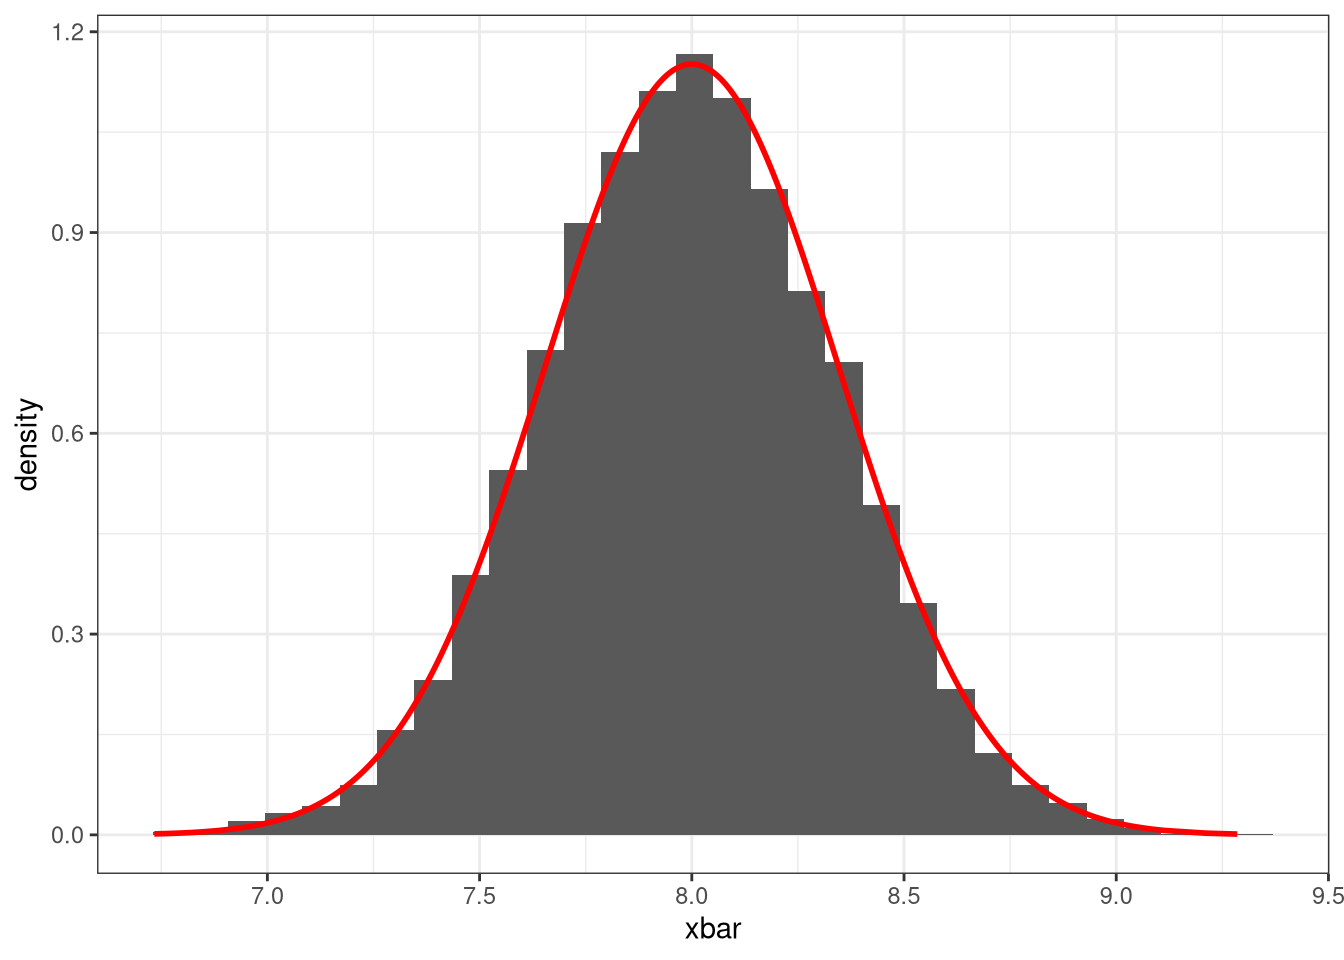
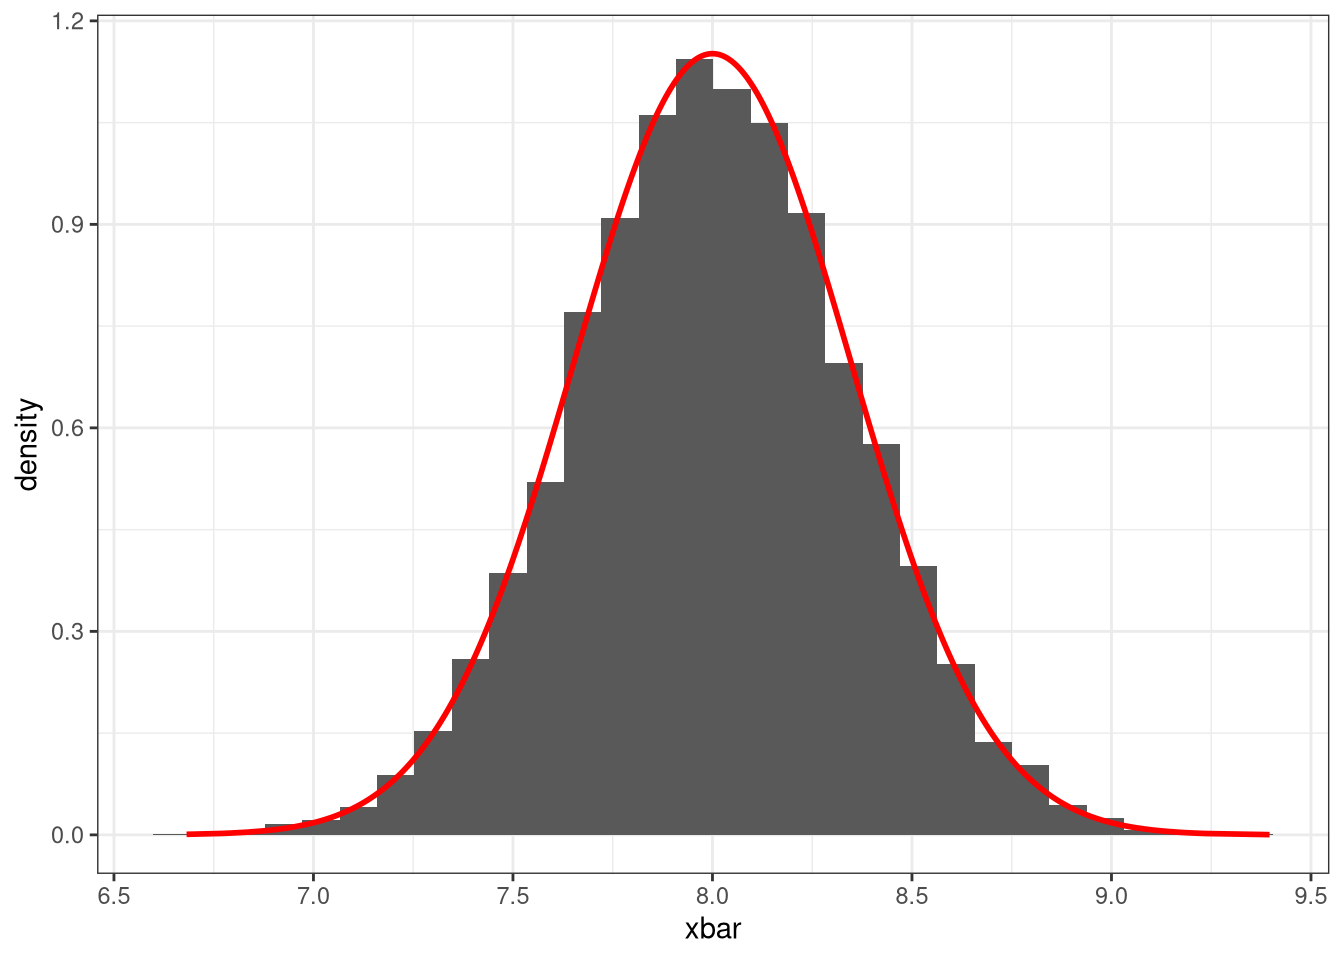
Minor edits to estimators.

diff --git a/docs/estimators.html b/docs/estimators.html
@@ -197,14 +197,14 @@ window.Quarto = {
 <section id="normal-distribution-example" class="level3">
 <h3 class="anchored" data-anchor-id="normal-distribution-example">Normal Distribution Example</h3>
 <p>Assume that <span class="math inline">\(X_1, \ldots, X_{25}\overset{iid}{\sim}N(8, 3)\)</span>, normal distribution with mean 8 and variance 3. Depending on the sample, the value of <span class="math inline">\(\bar X\)</span> will change due to the randomness being generated. Therefore, a different sample will yield a different value of <span class="math inline">\(\bar X\)</span>. The R code below will demonstrate the potential distribution <span class="math inline">\(\bar X\)</span> by simulating numerous samples from distribution above and generating the histogram of <span class="math inline">\(\bar X\)</span>.</p>
-<section id="section" class="level4">
-<h4 class="anchored" data-anchor-id="section"></h4>
+<section id="simulation" class="level4">
+<h4 class="anchored" data-anchor-id="simulation">Simulation</h4>
 <p>To simulate a random sample of 25 that follows a normal distribution, we can use the <code>rnorm</code> function. Afterwards, we will compute the mean of the sample.</p>
 <div class="cell">
 <div class="sourceCode cell-code" id="cb2"><pre class="sourceCode r code-with-copy"><code class="sourceCode r"><span id="cb2-1"><a href="#cb2-1" aria-hidden="true" tabindex="-1"></a>x1 <span class="ot">&lt;-</span> <span class="fu">rnorm</span>(<span class="dv">25</span>, <span class="dv">8</span>, <span class="fu">sqrt</span>(<span class="dv">3</span>))</span>
 <span id="cb2-2"><a href="#cb2-2" aria-hidden="true" tabindex="-1"></a><span class="fu">mean</span>(x1)</span></code><button title="Copy to Clipboard" class="code-copy-button"><i class="bi"></i></button></pre></div>
 <div class="cell-output cell-output-stdout">
-<pre><code>#&gt; [1] 8.990763</code></pre>
+<pre><code>#&gt; [1] 7.966528</code></pre>
 </div>
 </div>
 <p>Notice that the value is close to 8. Generate (run the code below) multiple samples and see what mean are values are being produced:</p>
@@ -237,7 +237,7 @@ eyJhdHRyIjp7ImVkaXQiOnRydWUsImV2YWwiOnRydWV9LCJjb2RlIjoieHcgPC0gcm5vcm0oMjUsIDgs
 </div>
 </div>
 </div>
-<p>Notice that the values of <span class="math inline">\(\bar X\)</span> are bell shaped centered around the value 8. This makes us think that the sampling distribution for <span class="math inline">\(\bar X\)</span> may follow a normal distribution. In fact, if a random is said to be generated from a normal distribution, then the distribution will also be normally distributed. For this example, the distribution of <span class="math inline">\(\bar X\)</span> is <span class="math inline">\(N(8, 3/25)\)</span>. We can plot the probability density function on the histogram and they will closely align.</p>
+<p>Notice that the values of <span class="math inline">\(\bar X\)</span> are bell shaped centered around the value 8. This makes us think that the sampling distribution for <span class="math inline">\(\bar X\)</span> may follow a normal distribution. In fact, if a random sample is said to be generated from a normal distribution, then the distribution will also be normally distributed. For this example, the distribution of <span class="math inline">\(\bar X\)</span> is <span class="math inline">\(N(8, 3/25)\)</span>. We can plot the probability density function on the histogram and they will closely align.</p>
 <div class="cell">
 <div class="sourceCode cell-code" id="cb5"><pre class="sourceCode r code-with-copy"><code class="sourceCode r"><span id="cb5-1"><a href="#cb5-1" aria-hidden="true" tabindex="-1"></a><span class="co"># Plotting the histogram of the sample means</span></span>
 <span id="cb5-2"><a href="#cb5-2" aria-hidden="true" tabindex="-1"></a><span class="co"># And imposing the density function of a normal distribution</span></span>
